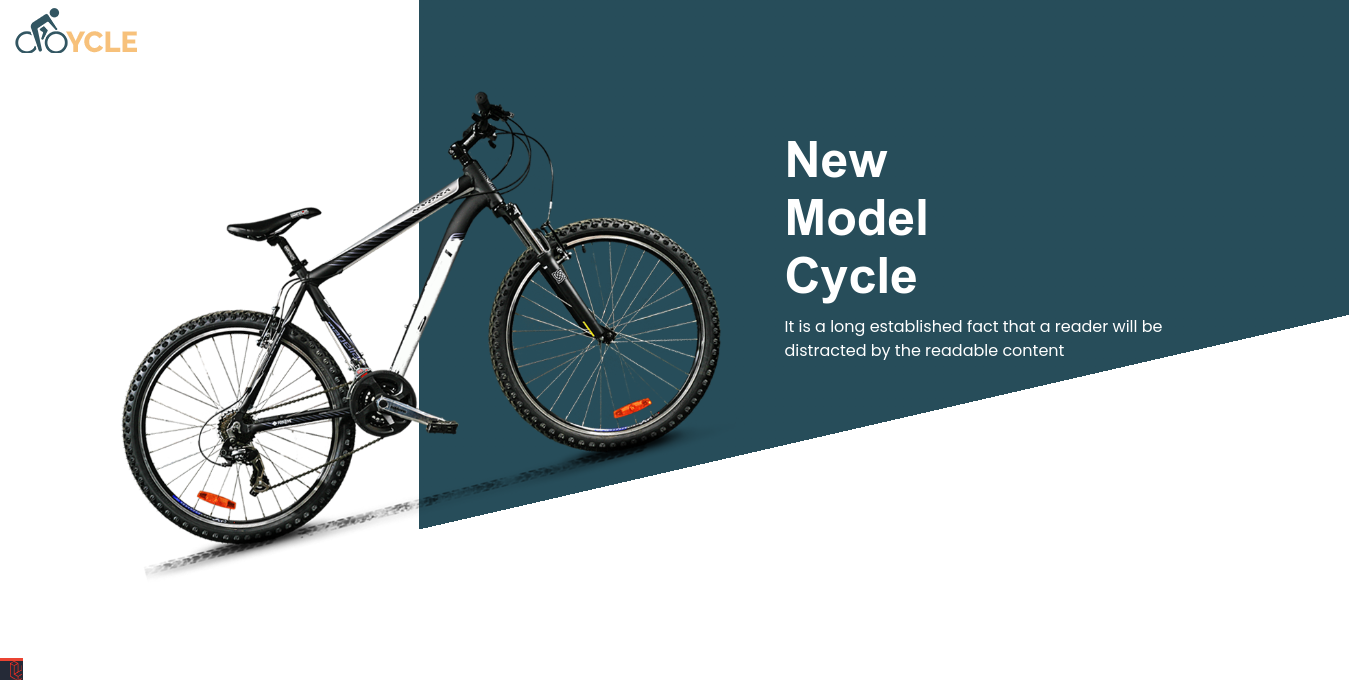
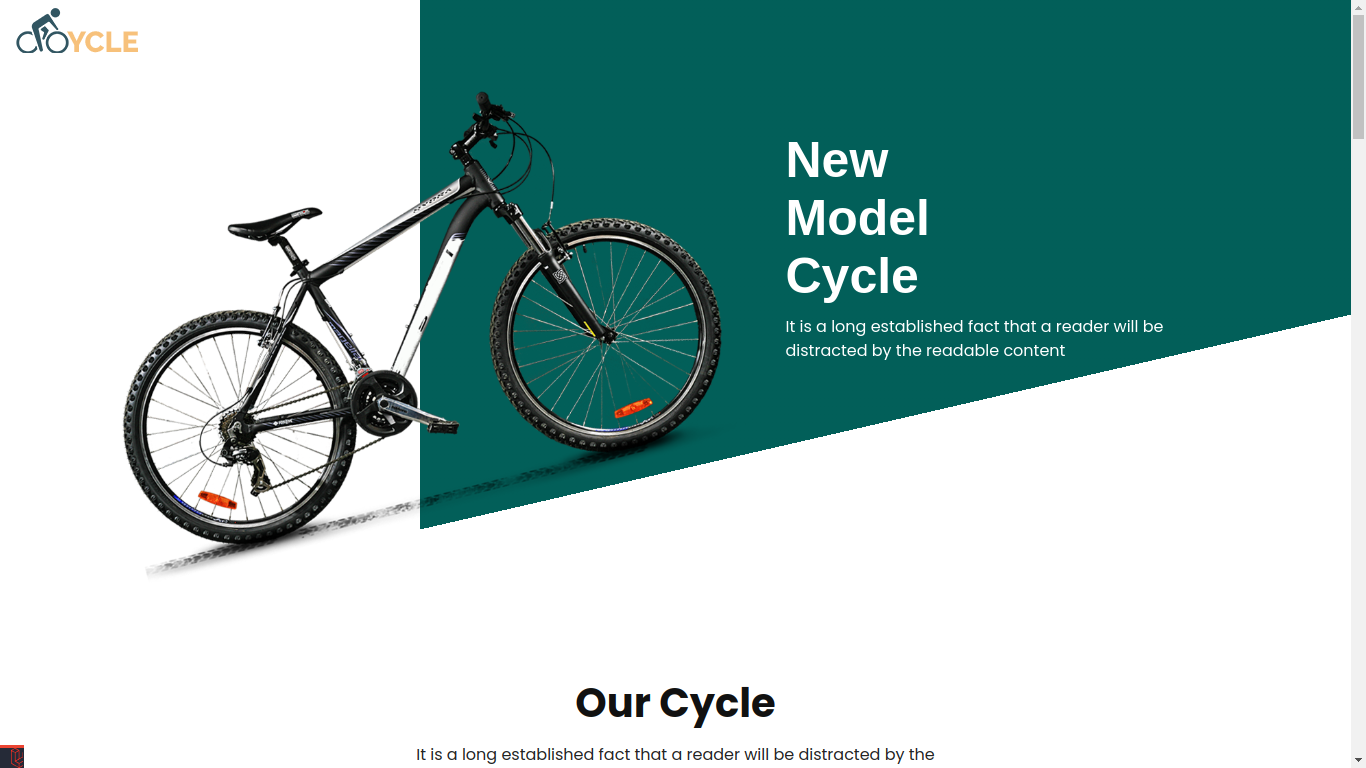
updated show template in cycle

diff --git a/public/cycle/css/style.css b/public/cycle/css/style.css
@@ -209,7 +209,7 @@ button {
 .header_section {
     width: 100%;
     float: left;
-    background-image: linear-gradient(-13deg, #ffffff 30%, #274d5a 20%);
+    background-image: linear-gradient(-13deg, #ffffff 30%, #025f59 20%);
     position: relative;
     overflow-x: hidden; 
 }
@@ -349,7 +349,7 @@ button {
     margin: 0 auto;
     text-align: center;
     background-color: #f7c17b;
-    color: #325662;
+    color: #025f59;
     font-size: 20px;
     font-weight: bold;
     border-radius: 100px;
@@ -421,7 +421,7 @@ button {
 #main_slider .carousel-control-next {
     width: 68px;
     height: 68px;
-    background: #325662;
+    background: #025f59;
     opacity: 1;
     font-size: 30px;
     color: #ffffff;
@@ -476,7 +476,7 @@ button {
     height: 50px;
     font-size: 18px;
     color: #ffffff;
-    background-color: #325662;
+    background-color: #025f59;
     border-radius: 100px;
     text-align: center;
     padding: 10px 0px;
@@ -519,7 +519,7 @@ clip-path: polygon(0 0, 75% 8%, 75% 80%, 0% 100%);
     position: absolute;
     width: 180px;
     height: 1px;
-    background-color: #325662;
+    background-color: #025f59;
     left: 0px;
     right: initial;
     margin: 0 auto;
@@ -548,8 +548,8 @@ clip-path: polygon(0 0, 75% 8%, 75% 80%, 0% 100%);
     float: left;
     font-size: 18px;
     color: #ffffff;
-    /* background-color: #325662; */
-    background-color: #f7c17b;
+    /* background-color: #025f59; */
+    background-color: #025f59;
     padding: 8px 5px;
     text-align: center;
     font-weight: bold;
@@ -580,7 +580,7 @@ clip-path: polygon(0 0, 75% 8%, 75% 80%, 0% 100%);
 }
 .box_main_3:after {
     content: '';
-    background-color: #f7c17b;
+    background-color: #025f59;
     position: absolute;
     width: 420px;
     right: 0px;
@@ -597,7 +597,7 @@ clip-path: polygon(0 0, 75% 8%, 75% 80%, 0% 100%);
     height: 50px;
     font-size: 18px;
     color: #ffffff;
-    background-color: #325662;
+    background-color: #025f59;
     border-radius: 100px;
     text-align: center;
     padding: 10px 0px;
@@ -627,7 +627,7 @@ clip-path: polygon(0 0, 75% 8%, 75% 80%, 0% 100%);
 }
 .read_bt a:hover{
     color: #ffffff;
-    background-color: #325662;
+    background-color: #025f59;
 }
 
 /* cycle section end */
@@ -636,7 +636,7 @@ clip-path: polygon(0 0, 75% 8%, 75% 80%, 0% 100%);
 .about_section {
     width: 100%;
     float: left;
-    background-color: #325662;
+    background-color: #025f59;
     /* background-image: url(../images/about-bg.png); */
     height: auto;
     padding: 90px 0px;
@@ -739,7 +739,7 @@ box-shadow: 0px 8px 7px 3px
 }
 .read_bt_1 a:hover{
     color: #ffffff;
-    background-color: #325662;
+    background-color: #025f59;
 }
 
 
@@ -943,7 +943,7 @@ box-shadow: 0px 8px 7px 3px
 .contact_section {
     width: 100%;
     float: left;
-    background-color: #355764;
+    background-color: #025f59;
     height: auto;
     padding-bottom: 90px;
 }
@@ -1010,7 +1010,7 @@ textarea#comment::placeholder {
     color: #ffffff;
     font-size: 18px;
     padding: 10px 0px;
-    background-color: #f7c17b;
+    background-color: #000;
     border-radius: 10px;
 }
 
@@ -1026,7 +1026,7 @@ textarea#comment::placeholder {
     color: #ffffff;
     font-size: 18px;
     padding: 10px 0px;
-    background-color: #f7c17b;
+    background-color: #000;
     border-radius: 10px;
 }
 
@@ -1040,7 +1040,7 @@ textarea#comment::placeholder {
 .footer_section {
     width: 100%;
     float: left;
-    background-color: #355764;
+    background-color: #025f59;
     height: auto;
     background-size: cover;
 }

diff --git a/resources/views/template/show/cycle.blade.php b/resources/views/template/show/cycle.blade.php
@@ -74,14 +74,14 @@
                      <h1 class="cycles_text">Stylis Cycle</h1>
                      <p class="lorem_text">It is a long established fact that a reader will be distracted by the readable content of a page when looking at its layout. The point of using Lorem Ipsum is that it has a more-or-less normal distribution of letters</p>
                      <div class="btn_main">
-                        <div class="buy_bt"><a href="#">Buy Now</a></div>
-                        <h4 class="price_text">Price <span style=" color: #f7c17b">$</span> <span style=" color: #325662">200</span></h4>
+                        <div class="buy_bt"><a href="#order">Buy Now</a></div>
+                        {{-- <h4 class="price_text">Price <span style=" color: #f7c17b">$</span> <span style=" color: #325662">200</span></h4> --}}
                      </div>
                   </div>
                   <div class="col-md-6">
                      <div class="box_main_3">
-                        <h6 class="number_text_2">02</h6>
-                        <div class="image_2"><img src="{{ asset($template->assets_path . '/images/img-3.png')}}"></div>
+                        {{-- <h6 class="number_text_2">02</h6> --}}
+                        <div style="margin-top: 100px!important" class="image_2"><img src="{{ asset($template->assets_path . '/images/img-3.png')}}"></div>
                      </div>
                   </div>
                </div>
@@ -171,16 +171,46 @@
          <div class="container">
             <div class="contact_main">
                <h1 class="request_text">Order Now</h1>
+               <div class="row">
+                  <div class="col-md-8 justify-content-start">
+                      <p class="about_text">Cycle</p>
+                  </div>
+                  <div class="col-md-4 text-end">
+                      <span style="margin-right: 5px">
+                          <p class="about_text">BDT 12000</p>
+                      </span>
+                  </div>
+              </div>
                <form action="/action_page.php">
                   <div class="form-group">
                      <input type="text" class="email-bt" placeholder="Name" name="Name">
                   </div>
                   <div class="form-group">
-                     <input type="text" class="email-bt" placeholder="Email" name="Name">
+                     <input type="text" class="email-bt" placeholder="Phone" name="Email">
                   </div>
                   <div class="form-group">
-                     <input type="text" class="email-bt" placeholder="Phone Numbar" name="Email">
+                     <input type="Number" class="email-bt" placeholder="Quantity" name="Name">
                   </div>
+                  <div class="form-group" style="color: #ffffff !important">
+                     <div class="form-check d-flex justify-content-between">
+                         <div>
+                             <input class="form-check-input" type="radio" name="shipping_cost"
+                                 id="flexRadioDefault1" checked
+                                 value="">
+                             <label class="form-check-label" for="flexRadioDefault1"> Shiping Cost (Inside Dhaka)</label>
+                         </div>
+                         BDT 300
+                     </div>
+                     <div class="form-check d-flex justify-content-between">
+                         <div>
+                             <input class="form-check-input" type="radio" name="shipping_cost"
+                                 id="flexRadioDefault2"
+                                 value="">
+                             <label class="form-check-label" for="flexRadioDefault2">Shipping Cost (Outside Dhaka)</label>
+                         </div>
+                         BDT 500
+                     </div>
+                 </div>
                   <div class="form-group">
                      <textarea class="massage-bt" placeholder="Address" rows="5" id="comment" name="Address"></textarea>
                   </div>
